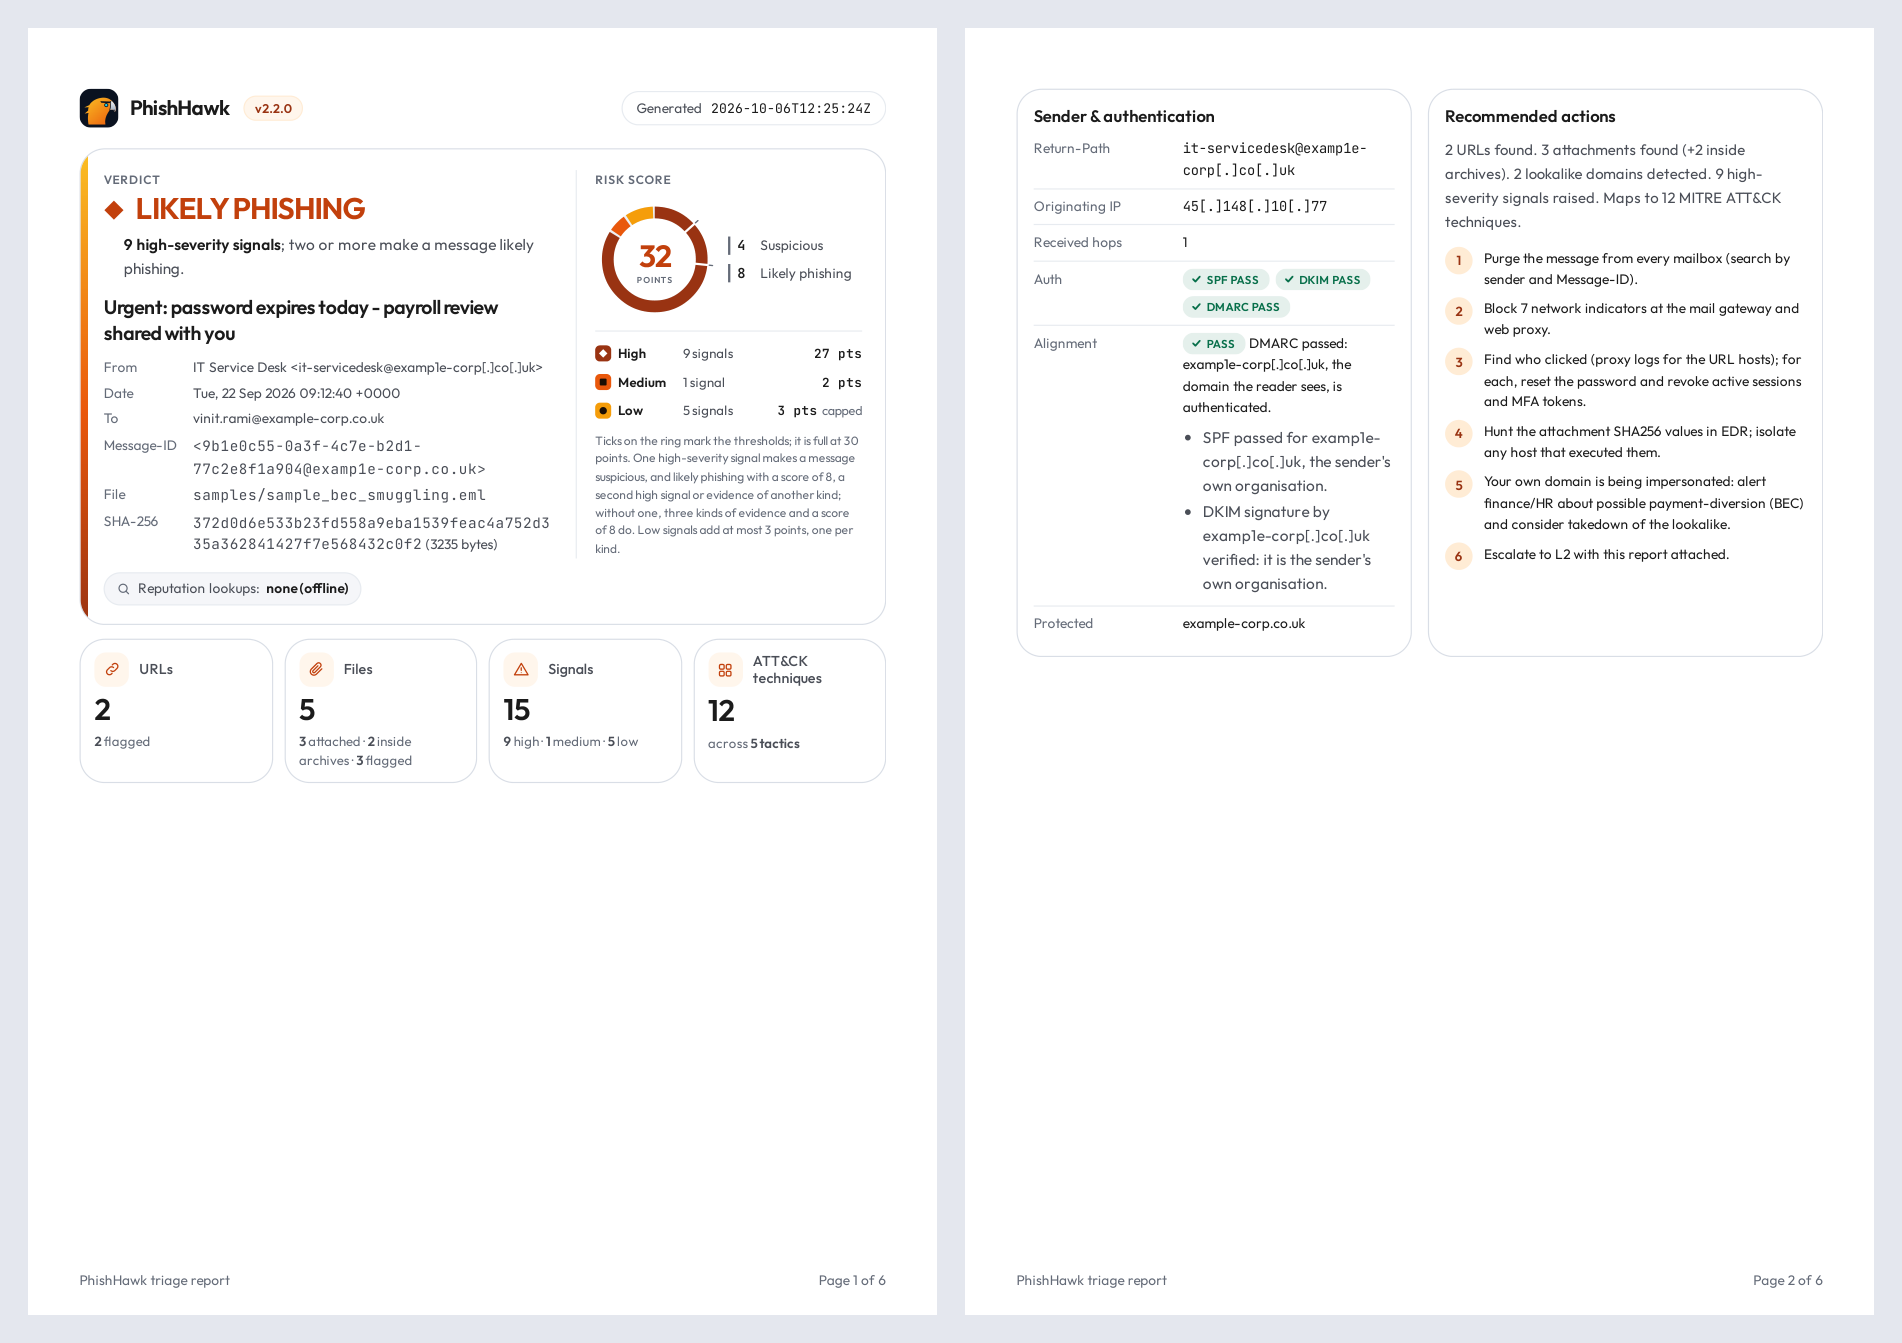
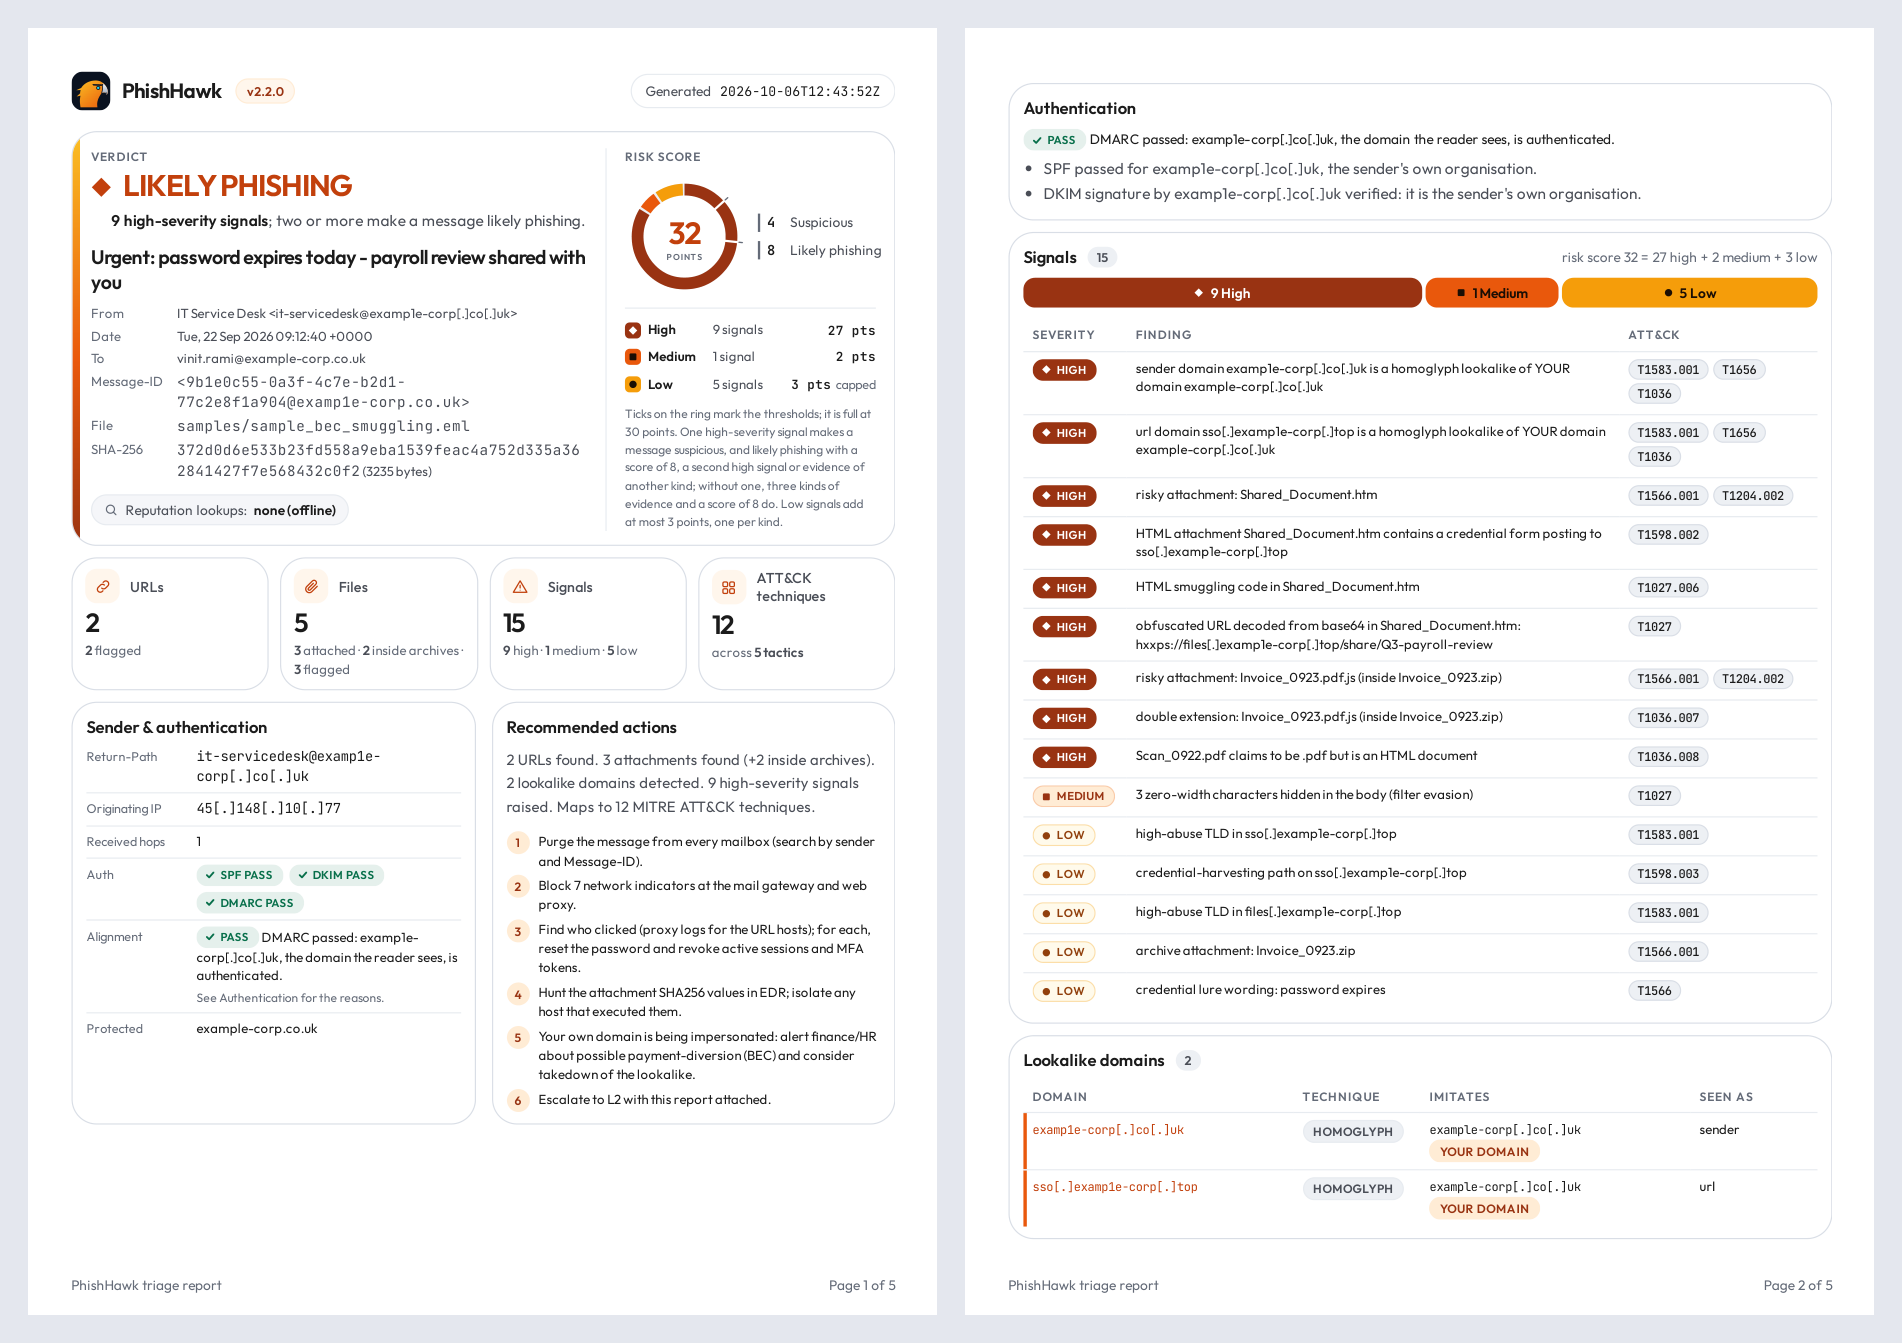
Fit the printed report's summary on page one again
2.2's alignment explanation pushed sender and authentication and the
recommended actions onto page two of the printed HTML report. On paper the
sender card now keeps the alignment verdict and its first sentence, and the
reasons open the evidence in an Authentication panel; the page margins and
spacing are tighter. All five samples' summaries fit on page one. The screen
layout is unchanged.

make_report_shots.py stops if the summary no longer fits, and the print
screenshot, README and CHANGELOG are updated.

diff --git a/src/phishhawk/report/html.py b/src/phishhawk/report/html.py
@@ -279,6 +279,7 @@ h2{font-size:14.5px;font-weight:600;letter-spacing:-.01em;margin:0}
 .kv dt{color:var(--ink-3);font-size:12px}
 .kv dd{margin:0;min-width:0;overflow-wrap:anywhere}
 .why{margin:.4rem 0 0;padding-left:1.1rem}.why li{margin:.15rem 0}
+.print-only{display:none}
 .kv .mono{font-size:12px}
 .badges{display:flex;flex-wrap:wrap;gap:5px}
 .summary{margin:0 0 12px;color:var(--ink-2);font-size:13px;line-height:1.6}
@@ -413,16 +414,16 @@ footer b{color:var(--ink-2);font-weight:600}
 }
 
 /* Print: A4, paper white, the summary on page one and the evidence after it. */
-@page{size:A4;margin:14mm 12mm 16mm;
+@page{size:A4;margin:10mm 10mm 14mm;
   @bottom-left{content:"PhishHawk triage report";font:9pt "Outfit",sans-serif;color:#646c78}
   @bottom-right{content:"Page " counter(page) " of " counter(pages);font:9pt "Outfit",sans-serif;color:#646c78}}
 @media print{
-  body{background:#fff;font-size:12px}
+  body{background:#fff;font-size:12px;line-height:1.45}
   .theme{display:none}
   .wrap{max-width:none;padding:0}
   .card{box-shadow:none;border-color:#d9dee6}
   .pill{box-shadow:none}
-  .hero{grid-template-columns:minmax(0,1fr) 250px;gap:18px;padding:18px 20px 16px}
+  .hero{grid-template-columns:minmax(0,1fr) 236px;gap:16px;padding:14px 16px 12px}
   .hero-side{padding:0 0 0 16px;border-top:0;border-left:1px solid var(--line);gap:10px}
   .ring{width:104px;height:104px;flex-basis:104px}
   .ring-row{gap:12px}
@@ -430,21 +431,28 @@ footer b{color:var(--ink-2);font-weight:600}
   .legend .pts{font-size:11px}
   .ring-note{font-size:10.5px}
   .verdict{font-size:26px}
-  h1{font-size:17px;margin:12px 0 10px}
-  .meta{font-size:12px;gap:4px 14px}
+  h1{font-size:17px;margin:10px 0 8px}
+  .meta{font-size:11.5px;gap:3px 12px}
+  .facts{margin-top:10px}
   .kpis{grid-template-columns:repeat(4,minmax(0,1fr));gap:10px}
-  .kpi{padding:11px 12px;gap:7px}
-  .kpi .val{font-size:26px}
+  .kpi{padding:9px 11px;gap:5px}
+  .kpi .val{font-size:23px}
   .grid-2{grid-template-columns:minmax(0,1fr) minmax(0,1fr)}
-  .kv>div{padding:6px 0;font-size:12px}
-  .steps{gap:7px}
-  .steps li{font-size:12px}
+  .kv>div{grid-template-columns:88px minmax(0,1fr);gap:8px;padding:5px 0;font-size:11.5px}
+  .kv dt{font-size:11px}
+  .steps{gap:5px}
+  .steps li{grid-template-columns:20px minmax(0,1fr);gap:8px;font-size:11.5px;line-height:1.45}
+  .steps li::before{width:20px;height:20px;font-size:10.5px}
+  /* the alignment reasons move to an Authentication panel with the evidence */
+  .print-only{display:block}
+  .kv .why{display:none}
+  .why-more{margin-top:3px;font-size:10.5px;color:var(--ink-3)}
   /* Chromium cannot fragment grid items across pages cleanly: a table split
      over a page break was drawn under the next card. Block flow fixes it. */
   main.stack,section.msg,.evidence{display:block}
-  section.msg>*+*,.evidence>*+*{margin-top:12px}
+  section.msg>*+*,.evidence>*+*{margin-top:10px}
   .card{-webkit-box-decoration-break:clone;box-decoration-break:clone}
-  .panel{padding:12px 14px}
+  .panel{padding:10px 12px}
   .panel-head{margin-bottom:8px}
   .tbl{font-size:11.5px}
   .tbl th{padding:6px 8px}
@@ -707,6 +715,19 @@ def _kpis(a: Analysis, files: list[FileIoc]) -> str:
         % (_icon(icon), escape(label), value, foot) for icon, label, value, foot in tiles)
 
 
+def _alignment(a: Analysis, note: bool = False) -> str:
+    """The alignment badge, its lead sentence and the reasons. In print the
+    sender card keeps the lead only (note=True says where the reasons went),
+    so the summary stays on page one."""
+    block = assess(a, defang_host)
+    level = {"pass": "ok", "fail": "high"}.get(block["status"], "medium")
+    lead, *why = block["explanation"]
+    reasons = '<ul class="why">%s</ul>' % "".join("<li>%s</li>" % escape(line) for line in why) if why else ""
+    more = '<span class="print-only why-more">See Authentication for the reasons.</span>'
+    return '%s <span class="why-lead">%s</span>%s%s' % (_badge(block["status"].upper(), level), escape(lead),
+                                                      reasons, more if note and why else "")
+
+
 def _sender(a: Analysis) -> str:
     rows = []
     for label, value in (("Reply-To", a.reply_to), ("Return-Path", a.return_path),
@@ -715,12 +736,7 @@ def _sender(a: Analysis) -> str:
             rows.append((label, '<span class="mono">%s</span>' % escape(defang_host(value))))
     rows.append(("Received hops", str(a.received_hops)))
     rows.append(("Auth", _auth_badges(a)))
-    block = assess(a, defang_host)
-    level = {"pass": "ok", "fail": "high"}.get(block["status"], "medium")
-    lead, *why = block["explanation"]
-    rows.append(("Alignment", '%s <span class="why-lead">%s</span>%s' % (
-        _badge(block["status"].upper(), level), escape(lead),
-        '<ul class="why">%s</ul>' % "".join("<li>%s</li>" % escape(line) for line in why) if why else "")))
+    rows.append(("Alignment", _alignment(a, note=True)))
     if a.forged_auth:
         rows.append(("Forged auth", "<br>".join(
             "%s claimed as <span class=\"mono\">%s</span>%s" % (
@@ -806,6 +822,8 @@ def _url_cell(ioc) -> str:
 
 def _evidence(a: Analysis, files: list[FileIoc]) -> list[str]:
     out = []
+    if '<ul class="why">' in (alignment := _alignment(a)):  # on paper only: on screen they sit in the card
+        out.append(_panel("Authentication", alignment, cls="print-only"))
     if a.signals:
         rows = []
         for s in sorted_signals(a):

diff --git a/tests/test_reports.py b/tests/test_reports.py
@@ -130,6 +130,25 @@ def test_html_embeds_its_fonts_and_prints_to_a4(phish):
     assert ".tbl thead{display:table-header-group}" in page  # column headers repeat on every page
 
 
+def test_html_print_keeps_the_summary_on_page_one(phish):
+    # The alignment reasons made the printed summary spill onto page two: on
+    # paper the sender card keeps the verdict and its lead sentence, and the
+    # reasons move to an Authentication panel at the start of the evidence.
+    from phishhawk.alignment import assess
+    from phishhawk.report.common import defang_host
+
+    page = html.render([phish])
+    lead, *why = assess(phish, defang_host)["explanation"]
+    assert why  # the sample fails authentication for several reasons
+    summary, evidence = page.split('<div class="evidence stack">', 1)
+    assert '<ul class="why">' in summary  # on screen the reasons stay beside the badge
+    panel = evidence.split('<section class="card panel print-only">', 1)[1].split("</section>", 1)[0]
+    assert "<h2>Authentication</h2>" in panel
+    assert all(html.escape(line) in panel for line in [lead, *why])
+    assert ".print-only{display:none}" in page
+    assert ".kv .why{display:none}" in page and ".print-only{display:block}" in page
+
+
 def test_html_theme_follows_the_system_and_can_be_switched_without_a_script(phish):
     page = html.render([phish])
     assert "<script" not in page

diff --git a/tools/make_report_shots.py b/tools/make_report_shots.py
@@ -5,6 +5,7 @@
 
 Writes report-light.png and report-dark.png (the top of the report, as a
 browser shows it) and report-print.png (the first two A4 pages, as printed).
+It stops if the printed summary no longer fits on page one.
 The sample is the BEC message, because it exercises the most of the report.
 Set PHISHHAWK_CHROMIUM to a Chromium binary to use it instead of Playwright's own.
 """
@@ -56,6 +57,9 @@ def main() -> int:
             browser.close()
 
     doc = pymupdf.open(stream=pdf, filetype="pdf")
+    if "Recommended actions" not in doc[0].get_text():
+        print("the printed summary no longer fits on page one", file=sys.stderr)
+        return 1
     pages = [Image.open(io.BytesIO(doc[i].get_pixmap(dpi=110).tobytes("png"))).convert("RGB") for i in range(2)]
     gap = 28
     sheet = Image.new("RGB", (sum(p.width for p in pages) + gap * 3, pages[0].height + gap * 2), "#e4e7ee")

diff --git a/README.md b/README.md
@@ -370,7 +370,7 @@ means an input could not be read or a report could not be written.
 | Flag | Best for | Notes |
 |---|---|---|
 | *(default)* | The analyst | Colour terminal report. `--quiet` gives one block per mail; `--verbose` shows everything. |
-| `--html PATH` | The ticket, L2, a manager | Self-contained, in the IntelPulse console's design and the PhishHawk logo's amber-orange. A score ring shows where the risk score came from, split by severity, with the verdict thresholds marked. Opens in the reader's light or dark mode, and an Auto / Light / Dark switch changes it without a script. Prints to A4 with page numbers: the summary first, the evidence from a fresh page after it. A strict Content-Security-Policy blocks scripts and network access, every value is escaped, and malicious URLs are never clickable. |
+| `--html PATH` | The ticket, L2, a manager | Self-contained, in the IntelPulse console's design and the PhishHawk logo's amber-orange. A score ring shows where the risk score came from, split by severity, with the verdict thresholds marked. Opens in the reader's light or dark mode, and an Auto / Light / Dark switch changes it without a script. Prints to A4 with page numbers: the summary on page one, the evidence from a fresh page after it, opening with the reasons behind the alignment verdict. A strict Content-Security-Policy blocks scripts and network access, every value is escaped, and malicious URLs are never clickable. |
 | `--json PATH` | SOAR playbooks, scripts | Verdict, score, signals, techniques, indicators and actions, in a format published as a [JSON Schema](docs/report.schema.json). Message bodies are left out. |
 | `--stix PATH` | OpenCTI, Sentinel TI | STIX 2.1 bundle, validated against the official `stix2` library in CI. IDs are deterministic, so one URL reported by fifty users imports as one indicator. |
 | `--misp PATH` | MISP | A MISP event per message: every indicator as an attribute, an email object, ATT&CK galaxy tags and a TLP tag. |
@@ -383,7 +383,7 @@ means an input could not be read or a report could not be written.
 </picture>
 
 <p align="center">
-  <img alt="The same report printed to A4: page one holds the verdict, the message's details with its SHA-256, and the counts; page two holds sender and authentication, with the alignment explained, and the recommended actions; the evidence starts on the next page" src="docs/images/report-print.png" width="760">
+  <img alt="The same report printed to A4: page one holds the verdict, the message's details with its SHA-256, the counts, sender and authentication, and the recommended actions; page two starts the evidence with the reasons behind the alignment verdict, then the signals and lookalike domains" src="docs/images/report-print.png" width="760">
 </p>
 
 <sub>Printed from a browser, or saved as PDF. Section headers repeat on every page, and rows never split

diff --git a/CHANGELOG.md b/CHANGELOG.md
@@ -24,6 +24,14 @@ the JSON and STIX output are the public interface.
 
 ### Fixed
 
+- The printed HTML report fits its summary on page one again. 2.2's
+  alignment explanation had pushed sender and authentication and the
+  recommended actions onto page two. On paper the sender card now keeps the
+  alignment verdict and its first sentence, the reasons open the evidence
+  under Authentication, and the margins and spacing are tighter. All five
+  samples' summaries now fit on page one (the reported sample's did not in
+  2.1). The screen layout is unchanged. `tools/make_report_shots.py` stops
+  if the summary no longer fits.
 - Documentation: the sandbox pack's member names (`message.msg` for an
   Outlook message; `files/<first 16 hex digits of the SHA-256>-<name>`).
 - Documentation: USAGE now says next to `--sandbox` that ZipCrypto is not
